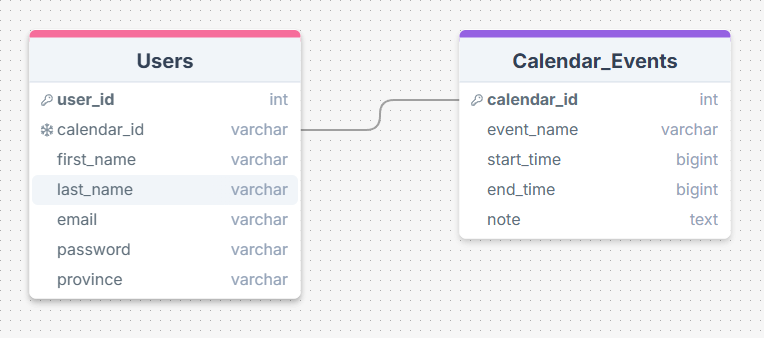
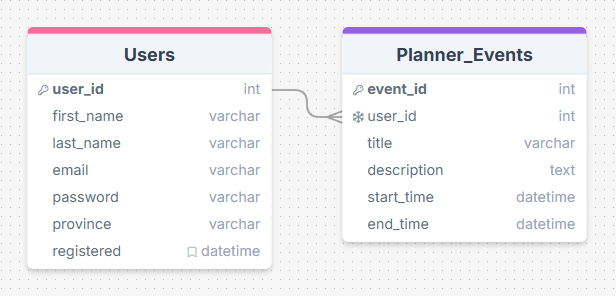
Further progress on README

diff --git a/README.md b/README.md
@@ -8,22 +8,29 @@ My app is designed to help teachers create and manage, teaching and lesson plans
 
 Teachers in BC are not provided with any organizational resources to structure their lesson plans around. They are given a loose definition of what the teaching objectives are for each grade, and what competencies to observe. These "curriculum outlines" are not organized or grouped together by grade but rather by subject; making them a pain to aggregate, while building a teaching plan. There are no recomendations given on how to structure and organize a lesson plan; which is a point of difficulty for most new teachers.
 
+Being a teacher requires planning on many levels: Year-long curriculum goals, monthly unit schedules, weekly lesson organization, and daily planners are just a few examples that my app is aimed to assist with.
+
+Many teachers resort to using purchased spreadsheet templates. These can be pricey, and restrictive. Having a resource that is easy to personalize to their preferences
+
 ### User Profile
 
-My app is meant for use by teachers (teaching in BC, Canada). It's purpose is to provide a structure by which teachers can create and organize their lesson plans. It will also provide easy access to the "curriculum outilies" that pertain to the specific grade selected for their plan.
+My app is meant for use by teachers (teaching in BC, Canada), in all grades (K - 12). It's purpose is to provide a structure by which teachers can create and organize their lesson plans. It will also provide easy access to the "curriculum outlines" that pertain to the specific grade selected for their plan.
 
 ### Features
 
 -   User accounts to allow for persisting plans.
--   Year, month, and day 'at-a-glance' views (YAAG, MAAG, and DAAG).
--   YAAG view includes:
-    -   Canadian statutory holidays.
-    -   ability to add professional development days.
-    -   ability to divide into terms or semesters, as needed.
-    -   ability to define 'Big Ideas' and 'Learning Metrics' for each portion of the year.
--   Repository for collected resources, and resource links:
-    -   ability to link resources to a specific lesson, making them available through the DAAG page (ex. providing a link to a video resource from within a menu in the DAAG plan).
+-   Year, week, and day 'at-a-glance' views (YAAG, WAAG, and DAAG).
+-   Check boxes for days-off and pro-d days
+-   Canadian statutory holidays.
+-   Ability to divide into terms or semesters, as needed.
+-   Ability to define 'Big Ideas' and 'Learning Metrics' for each portion of the year.
 -   Ability to add text notes to a plan.
+
+> ![IMPORTANT]
+> Next-up features, to be included as time permits:
+>
+> -   Repository for collected resources, and resource links:
+> -   ability to link resources to a specific lesson, making them available through the DAAG page (ex. providing a link to a video resource from within a menu in the DAAG plan).
 
 ## Implementation
 
@@ -36,9 +43,11 @@ My app is meant for use by teachers (teaching in BC, Canada). It's purpose is to
 -   Client libraries:
     -   react
     -   react-router
-    -   react-big-calendar
+    -   FullCalendar
     -   moment
     -   axios
+    -   Tailwind CSS
+    -   Flowbite
 -   Server libraries:
     -   node.js
     -   express
@@ -46,7 +55,7 @@ My app is meant for use by teachers (teaching in BC, Canada). It's purpose is to
 
 ### APIs
 
-[API to get all Canadian statutory holidays](https://canada-holidays.ca/api/v1/)
+[Canadian Holidays API](https://canada-holidays.ca/api/v1/)
 
 -   provides statutory holiday schedule on a Province basis
 -   offers english and french holiday names
@@ -61,7 +70,7 @@ My app is meant for use by teachers (teaching in BC, Canada). It's purpose is to
 -   Create Account
 -   Login
 -   Dashboard (Year View)
--   Edit Year
+-   User Profile
 -   My Resources
 -   My Month
 -   My Day
@@ -72,39 +81,54 @@ My app is meant for use by teachers (teaching in BC, Canada). It's purpose is to
 
 ### Data
 
-Each user profile will be associated with a calendar table, in a 1:1 relationship.
+Each user profile will be associated with a planner table, in a 1:1 relationship.
 
-![Diagram showing the relationship between the 'Users' and 'Calendar_Events' tables.](./proposal-assets/db_map.png)
+![Diagram showing the relationship between the 'Users' and 'Planner_Events' tables.](./proposal-assets/db_map.png)
 
 > [!IMPORTANT]
-> Future versions will allow each user profile to create multiple calendars, in a 1:n relationship.
+> Future versions will allow each user profile to create multiple planners, in a 1:n relationship.
 
 ### Endpoints
 
 -   POST NewUser
 
-    -   create a new user profile with name, email, and password
+    -   Create a new user profile with name, ID, email, and password.
 
 -   GET User
 
-    -   on login get user data such as name, and email
+    -   On login: get user data such as name, and calendar ID.
 
--   POST NewCalendarEvent
+-   POST NewPlannerEvent
 
-    -   add a new calndar event
+    -   Add a new planner event.
 
--   GET CalendarEvents
+-   GET PlannerEvents
 
-    -   get the list of all calendar events for a specific user
+    -   Get the list of all planned events, for a specific user.
 
--   DELETE RemoveCalendarEvent
+-   DELETE RemovePlannerEvent
 
-    -   remove a calendar event
+    -   Remove an event from the 'Planner_Events' table.
+
+> ![IMPORTANT]
+> Additional endpoints to be added, time permiting:
+>
+> POST EditUser
+>
+> -   Update user data.
+>
+> DELETE DeleteUserAccount
+>
+> -   Delete a user's account, and associated data.
+
+> POST UpdatePlannerEvent
+>
+> -   Edit the details of an event.
 
 ### Auth
 
 -   JWT auth
-    -   stored in cookies, with expiry of 24 hours.
+    -   Stored in cookies, with expiry of 24 hours.
 
 ## Roadmap
 
@@ -121,11 +145,13 @@ Sprint-2 (Aug 26 - Sep 01)
 -   GET CalendarEvents endpoint
 -   POST NewCalendarEvent endpoint
 -   PUT EditCalendarEvent endpoint
+-   test endpoints
 -   create 'Header' component
 -   create 'Dashboard' (year view) component
 -   create 'MyMonth' page
 -   create 'MyDay' page
 -   page styling
+-   test responsiveness at multiple screen sizes
 
 Sprint-3 (Sep 02 - Sep 08th)
 
@@ -135,16 +161,31 @@ Sprint-3 (Sep 02 - Sep 08th)
 -   POST NewUser endpoint
 -   GET User endpoint
 -   PUT EditUser endpoint
+-   test further endpoints
+-   test auth
 
-## Nice-to-haves (in no specific order)
+## Feature Wishlist (in no specific order)
 
 -   AI integration
 -   User image
 -   Province selection (for curriculum guidelines and statutory holidays)
 -   Darkmode
--   'My Week' view
--   Save multiple plans
--   Native app
+-   'My Month' view
+-   Better delivery of grade-relevant resources
+-   Ability for users to add, or link their own resources
 -   Reuseable lesson plans
+-   Save multiple teaching plans
+-   React Native app
+-   Typescript
 -   Accessibility
 -   OAuth (Google)
+-   Renew auth cookie expiration time if User logs in before expiry.
+-   POST EditUser
+-   DELETE DeleteUserAccount
+-   POST UpdatePlannerEvent
+
+## Challenges
+
+-   Skill limitations: This proposal pushes my skills and understanding in pretty much every area. Many of the libraries and APIs are new to me. I will need to take care to avoid getting in over my head on any one feature. Deciding when to pivot away from a task that exceeds my current abilities will be key to staying on-schedule.
+
+-   Scope Creep: Due to the hard deadline on this project it will be critical to keep the scope reasonable, and realistic. This will mean prioritizing core features, tracking progress daily, and pruning secondary features as necessary. Time management is an area that I struggle with especially, so makingit will be a top priority for this project.
